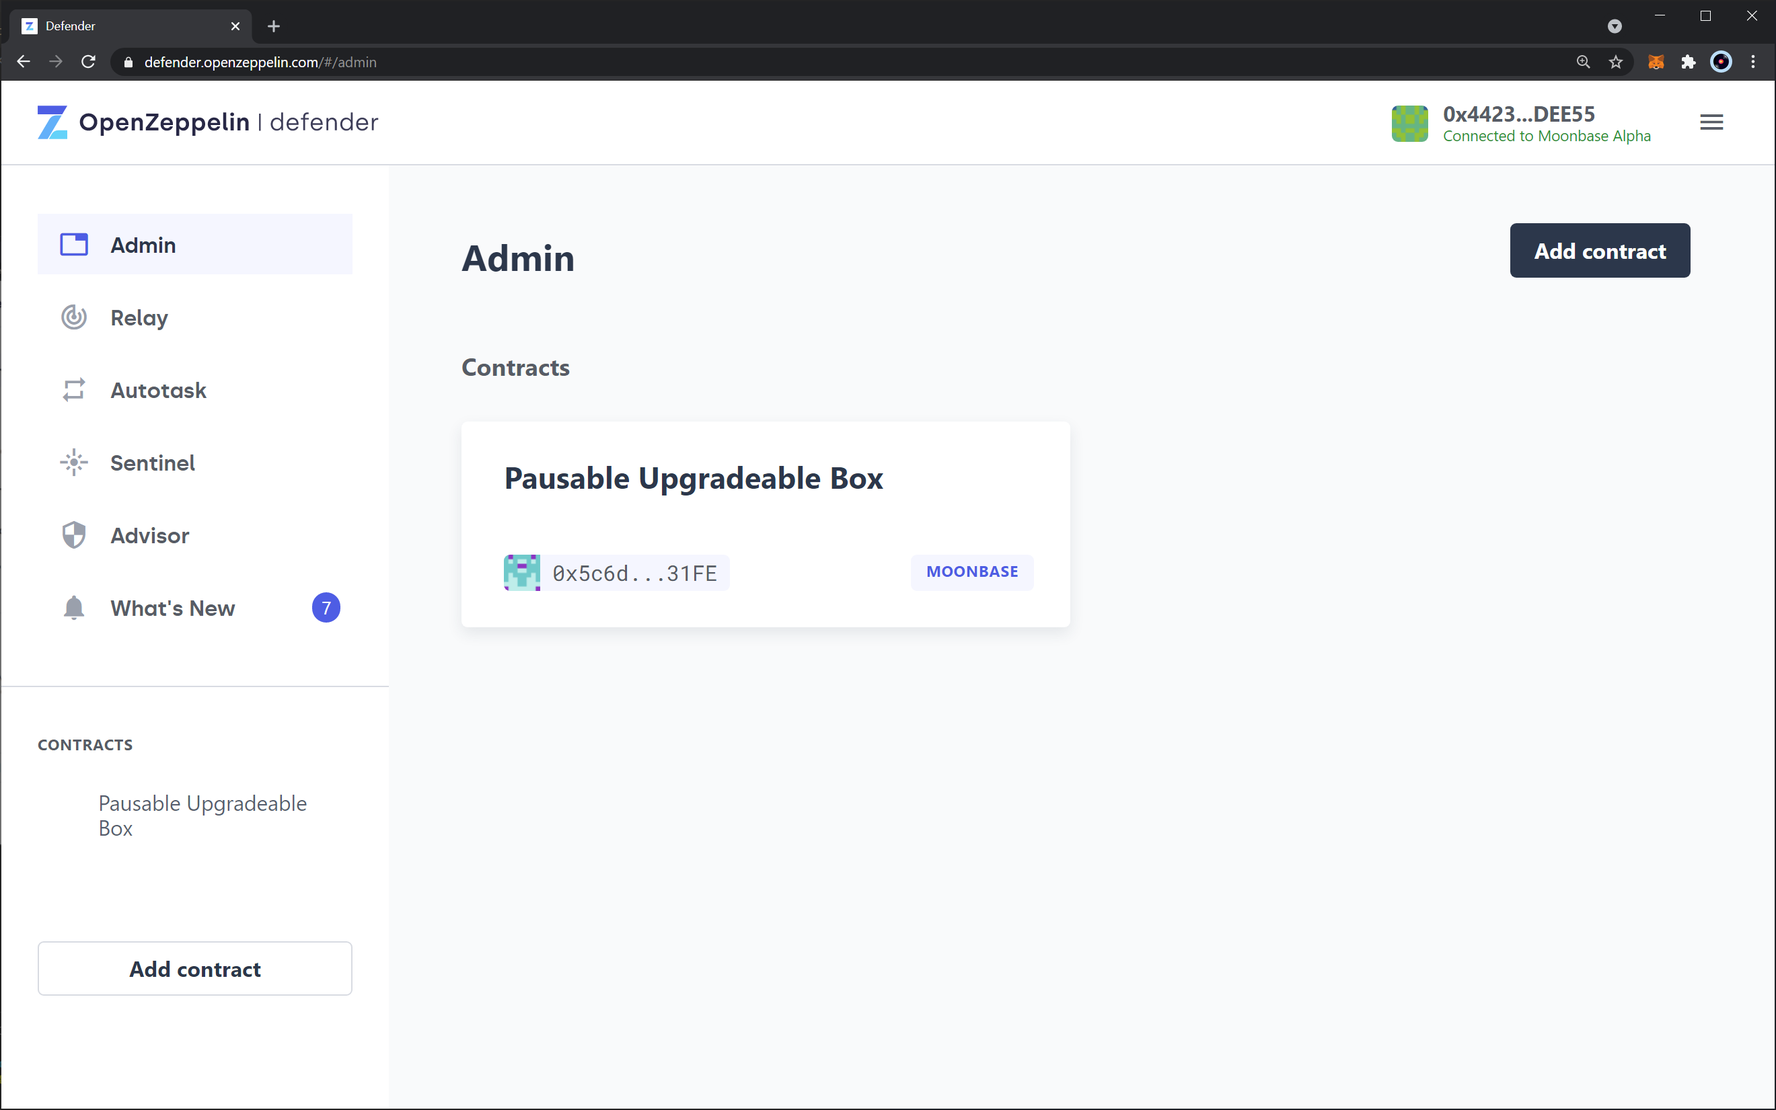
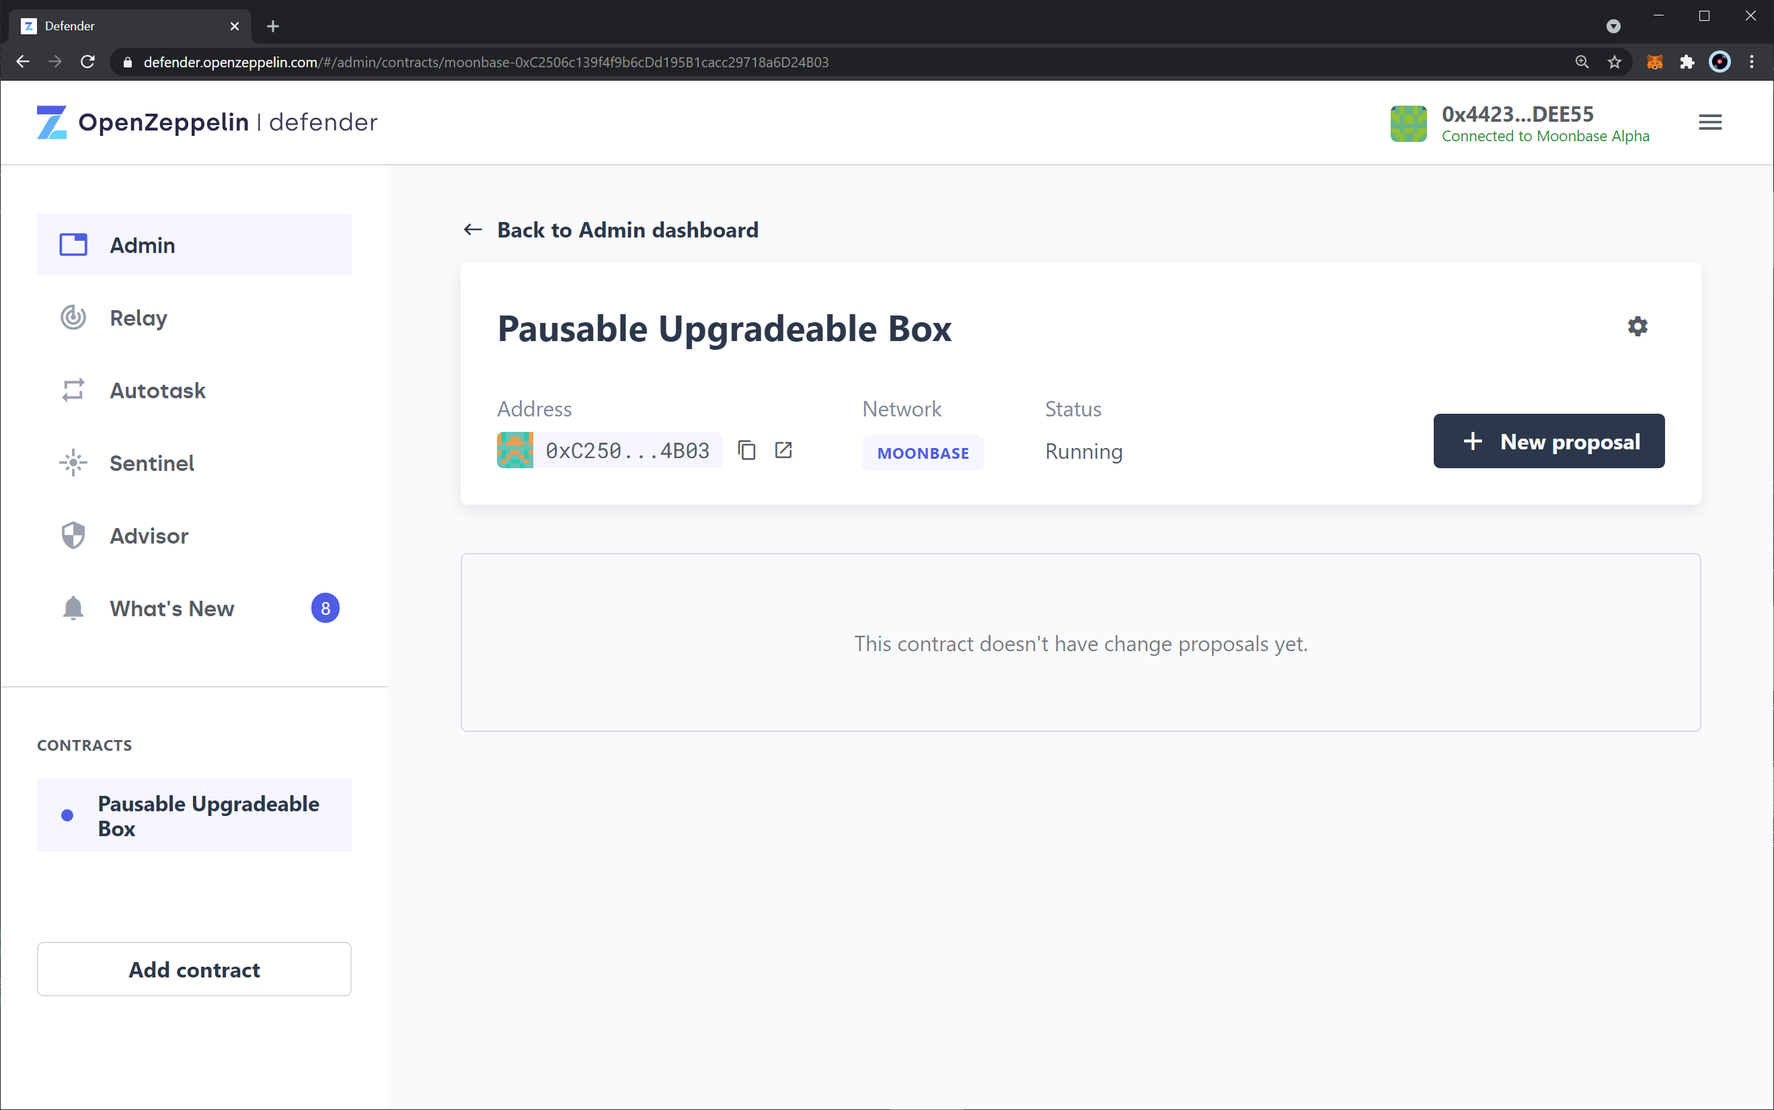
Defender updates

diff --git a/integrations/openzeppelin/contracts.md b/integrations/openzeppelin/contracts.md
@@ -1,6 +1,6 @@
 ---
 title: Contracts & Libraries
-description:  Learn how to easily create common OpenZeppelin contracts with their Contracts Wizard, and how to deploy them on Moonbeam thanks to its Ethereum compatibility features
+description:  Learn how to create common OpenZeppelin contracts with their Contracts Wizard easily and how to deploy them on Moonbeam thanks to its Ethereum compatibility features
 ---
 
 # OpenZeppelin Contracts & Libraries
@@ -13,7 +13,7 @@ OpenZeppelin contracts and libraries have become a standard in the industry. The
 
 Because Moonbeam is fully Ethereum compatible, all of OpenZeppelin's contracts and libraries can be implemented without any changes.
 
-This guide is divided into two sections. The first part describes the OpenZeppelin Contracts Wizard, an great online tool to help you create smart contracts using OpenZeppelin code. The second section provides a step-by-step guide on how you can deploy these contracts on Moonbeam.
+This guide is divided into two sections. The first part describes the OpenZeppelin Contracts Wizard, a great online tool to help you create smart contracts using OpenZeppelin code. The second section provides a step-by-step guide on how you can deploy these contracts on Moonbeam.
 
 ## OpenZeppelin Contract Wizard
 
@@ -42,7 +42,7 @@ Once you have set up your contract with all the settings and features, it is jus
 
 ## Deploying OpenZeppelin Contracts on Moonbeam
 
-This section goes through the steps for deploying OpenZeppelin contracts on Moonbeam Currently, it covers the following contracts:
+This section goes through the steps for deploying OpenZeppelin contracts on Moonbeam Currently. It covers the following contracts:
 
  - ERC20 (fungible tokens)
  - ERC721 (non-fungible tokens)
@@ -52,7 +52,7 @@ All the code of the contracts was obtained using OpenZeppelin [Contract Wizard](
  
 ### Checking Prerequisites
 
-The steps described in this section assumes you have [MetaMask](https://metamask.io/) installed and connected to the Moonbase Alpha TestNet. Contract deployment is done using the [Remix IDE](https://remix.ethereum.org/) via the "Injected Web3" environment. You can corresponding tutorials in the following links:
+The steps described in this section assume you have [MetaMask](https://metamask.io/) installed and connected to the Moonbase Alpha TestNet. Contract deployment is done using the [Remix IDE](https://remix.ethereum.org/) via the "Injected Web3" environment. You can find corresponding tutorials in the following links:
 
  - [Interacting with Moonbeam using MetaMask](/integrations/wallets/metamask/)
  - [Interacting with Moonbeam using Remix](/integrations/remix/)
@@ -61,16 +61,16 @@ The steps described in this section assumes you have [MetaMask](https://metamask
 
 For this example, an ERC20 token will be deployed to Moonbase Alpha. The final code used combines different contracts from OpenZeppelin:
 
- - **ERC20.sol** — ERC20 token implementation with the optional features from the base interface. Includes the supply mechanism with a `mint` function, but needs to be explicitly called from within the main contract
+ - **ERC20.sol** — ERC20 token implementation with the optional features from the base interface. Includes the supply mechanism with a `mint` function but needs to be explicitly called from within the main contract
  - **Ownable.sol** — extension to restrict access to certain functions
 
-The mintable ERC20 OpenZeppelin token contract provides a `mint` function that can only be called by the owner of the contract. By default, the owner is the contract's deployer address. There is also a premint of `1000` tokens sent to the contract's deployer configured in the `constructor` function.
+The mintable ERC20 OpenZeppelin token contract provides a `mint` function that the owner of the contract can only call. By default, the owner is the contract's deployer address. There is also a premint of `1000` tokens sent to the contract's deployer configured in the `constructor` function.
 
 The first step is to go to [Remix](https://remix.ethereum.org/) and take the following steps:
 
  1. Click on the "Create New File" icon and set a file name. For this example, it was set to `ERC20.sol`
- 2. Make sure the file was created succesfully. Click on the file to open it up in the text editor
- 3. Write your smart contract using the file editor. For this example the following code was used:
+ 2. Make sure the file was created successfully. Click on the file to open it up in the text editor
+ 3. Write your smart contract using the file editor. For this example, the following code was used:
 
 ```sol
 pragma solidity ^0.8.0;
@@ -91,7 +91,7 @@ contract MyToken is ERC20, Ownable {
 
 ![Getting Started with Remix](/images/openzeppelin/ozcontracts-images1.png)
 
-Once your smart contract is written, you can compile it by takink the following steps: 
+Once your smart contract is written, you can compile it by taking the following steps:
 
  1. Head to the "Solidity Compiler`
  2. Click on the compile button
@@ -102,10 +102,10 @@ Once your smart contract is written, you can compile it by takink the following 
 With the contract compiled, you are ready to deploy it taking the following steps: 
 
  1. Head to the "Deploy & Run Transactions" tab
- 2. Change the environment to "Injected Web3". This will use MetaMask's injected provider. Consequently, the contract wil be deployed to whatever network MetaMask is connected to. MetaMask might show a pop-up outlining that Remix is trying to connect to your wallet
- 3. Select the right contract to deploy. In this example, it is the `MyToken` contract inside the `ERC20.sol` file
+ 2. Change the environment to "Injected Web3". This will use MetaMask's injected provider. Consequently, the contract will be deployed to whatever network MetaMask is connected to. MetaMask might show a pop-up outlining that Remix is trying to connect to your wallet
+ 3. Select the proper contract to deploy. In this example, it is the `MyToken` contract inside the `ERC20.sol` file
  4. If everything is ready, click on the "Deploy" button. Review the transaction information in MetaMask and confirm it
- 5. After a few seconds, the transaction should get confirmed and you should see your contract under "Deployed Contracts"
+ 5. After a few seconds, the transaction should get confirmed, and you should see your contract under "Deployed Contracts"
 
 ![Deploy ERC20 Contract with Remix](/images/openzeppelin/ozcontracts-images3.png)
 
@@ -115,7 +115,7 @@ And that is it! You've deployed an ERC20 token contract using OpenZeppeling's co
 
 For this example, an ERC721 token will be deployed to Moonbase Alpha. The final code used combines different contracts from OpenZeppelin:
 
- - **ERC721** — ERC721 token implementation with the optional features from the base interface. Includes the supply mechanism with a `_mint` function, but needs to be explicitly called from within the main contract
+ - **ERC721** — ERC721 token implementation with the optional features from the base interface. Includes the supply mechanism with a `_mint` function but needs to be explicitly called from within the main contract
  - **Burnable** — extension to allow tokens to be destroyed by their owners (or approved addresses)
  - **Enumerable** — extension to allow on-chain enumeration of tokens
  - **Ownable.sol** — extension to restrict access to certain functions
@@ -165,10 +165,10 @@ contract MyToken is ERC721, ERC721Enumerable, ERC721Burnable, Ownable {
 
 With the contract compiled, head to the "Deploy & Run Transactions" tab. In here, you need to:
 
- 1. Change the environment to "Injected Web3". This will use MetaMask's injected provider. Consequently, the contract wil be deployed to whatever network MetaMask is connected to. MetaMask might show a pop-up outlining that Remix is trying to connect to your wallet
- 2. Select the right contract to deploy. In this example, it is the `MyToken` contract inside the `ERC721.sol` file
+ 1. Change the environment to "Injected Web3". This will use MetaMask's injected provider. Consequently, the contract will be deployed to whatever network MetaMask is connected to. MetaMask might show a pop-up outlining that Remix is trying to connect to your wallet
+ 2. Select the proper contract to deploy. In this example, it is the `MyToken` contract inside the `ERC721.sol` file
  3. If everything is ready, click on the "Deploy" button. Review the transaction information in MetaMask and confirm it
- 4. After a few seconds, the transaction should get confirmed and you should see your contract under "Deployed Contracts"
+ 4. After a few seconds, the transaction should get confirmed, and you should see your contract under "Deployed Contracts"
 
 ![Deploy ERC721 Contract with Remix](/images/openzeppelin/ozcontracts-images4.png)
 
@@ -178,11 +178,11 @@ And that is it! You've deployed an ERC721 token contract using OpenZeppeling's c
 
 For this example, an ERC1155 token will be deployed to Moonbase Alpha. The final code used combines different contracts from OpenZeppelin:
 
- - **ERC1155** — ERC1155 token implementation with the optional features from the base interface. Includes the supply mechanism with a `_mint` function, but needs to be explicitly called from within the main contract
+ - **ERC1155** — ERC1155 token implementation with the optional features from the base interface. Includes the supply mechanism with a `_mint` function but needs to be explicitly called from within the main contract
  - **Pausable** — extension to allows pausing tokens transfer, mintings and burnings
  - **Ownable.sol** — extension to restrict access to certain functions
 
-OpenZeppelin's ERC1155 token contract provides a `_mint` function that can only be called in the `constructor` function. Therefore, this examples creates 1000 tokens withn an ID of `0`, and 1 unique token with an ID of `1`.
+OpenZeppelin's ERC1155 token contract provides a `_mint` function that can only be called in the `constructor` function. Therefore, this example creates 1000 tokens with an ID of `0`, and 1 unique token with an ID of `1`.
 
 The first step is to go to [Remix](https://remix.ethereum.org/) and create a new file. For this example, the file name will be `ERC1155.sol`.
 
@@ -225,10 +225,10 @@ contract MyToken is ERC1155, Ownable, Pausable {
 
 With the contract compiled, head to the "Deploy & Run Transactions" tab. In here, you need to:
 
- 1. Change the environment to "Injected Web3". This will use MetaMask's injected provider. Consequently, the contract wil be deployed to whatever network MetaMask is connected to. MetaMask might show a pop-up outlining that Remix is trying to connect to your wallet
- 2. Select the right contract to deploy. In this example, it is the `MyToken` contract inside the `ERC1155.sol` file
+ 1. Change the environment to "Injected Web3". This will use MetaMask's injected provider. Consequently, the contract will be deployed to whatever network MetaMask is connected to. MetaMask might show a pop-up outlining that Remix is trying to connect to your wallet
+ 2. Select the proper contract to deploy. In this example, it is the `MyToken` contract inside the `ERC1155.sol` file
  3. If everything is ready, click on the "Deploy" button. Review the transaction information in MetaMask and confirm it
- 4. After a few seconds, the transaction should get confirmed and you should see your contract under "Deployed Contracts"
+ 4. After a few seconds, the transaction should get confirmed, and you should see your contract under "Deployed Contracts"
 
 ![Deploy ERC1155 Contract with Remix](/images/openzeppelin/ozcontracts-images5.png)
 

diff --git a/integrations/openzeppelin/defender.md b/integrations/openzeppelin/defender.md
@@ -1,6 +1,6 @@
 ---
 title: Defender
-description:  Learn how to use OpenZeppelin Defender to manage smart contracts in a secure way on Moonbeam thanks to its Ethereum compatibility features
+description:  Learn how to use OpenZeppelin Defender to manage smart contracts securely on Moonbeam, thanks to its Ethereum compatibility features
 ---
 
 # OpenZeppelin Defender
@@ -9,15 +9,15 @@ description:  Learn how to use OpenZeppelin Defender to manage smart contracts i
 
 ## Introduction
 
-OpenZeppelin Defender is a web-based application that allows developers to perform and automate smart contracts operations in a secure way. Defender offers different components:
+OpenZeppelin Defender is a web-based application that allows developers to perform and automate smart contract operations in a secure way. Defender offers different components:
 
- - [**Admin**](https://docs.openzeppelin.com/defender/admin) — to automate and secure all your smart contract operations such as access controls, upgrades and pausing
+ - [**Admin**](https://docs.openzeppelin.com/defender/admin) — to automate and secure all your smart contract operations such as access controls, upgrades, and pausing
  - [**Relay**](https://docs.openzeppelin.com/defender/relay) — to build with a private and secure transaction infrastructure with the implementation of private relayers
  - [**Autotasks**](https://docs.openzeppelin.com/defender/autotasks) — to create automated scripts to interact with your smart contracts
  - [**Sentinel**](https://docs.openzeppelin.com/defender/sentinel) — to monitor your smart contract's events, functions, and transactions, and receive notifications via email
- - [**Advisor**](https://docs.openzeppelin.com/defender/advisor) — to learn and implement best practices around development, testing, monitoring and operations
+ - [**Advisor**](https://docs.openzeppelin.com/defender/advisor) — to learn and implement best practices around development, testing, monitoring, and operations
 
-OpenZeppelin Defender can now be used on the Moonbase Alpha TestNet. This guide will show you how to get started with Defender, and demo Admin component to pause a smart contract. You can find more information in regards to the other components in the links mentioned above.
+OpenZeppelin Defender can now be used on the Moonbase Alpha TestNet. This guide will show you how to get started with Defender and demo Admin component to pause a smart contract. You can find more information in regards to the other components in the links mentioned above.
 
 For more information, the OpenZeppelin team has written a great [documentation site](https://docs.openzeppelin.com/defender/) for Defender.
 
@@ -27,11 +27,11 @@ This section goes through the steps for getting started with OpenZeppelin Defend
  
 ### Checking Prerequisites
 
-The steps described in this section assumes you have [MetaMask](https://metamask.io/) installed and connected to the Moonbase Alpha TestNet. If you haven't connected MetaMask to the TestNet, check out our [MetaMask integration guide](/integrations/wallets/metamask/).
+The steps described in this section assume you have [MetaMask](https://metamask.io/) installed and connected to the Moonbase Alpha TestNet. If you haven't connected MetaMask to the TestNet, check out our [MetaMask integration guide](/integrations/wallets/metamask/).
 
-In addition, you need to sign up for a free OpenZeppelin Defender account, which you can do in the main [Defender website](https://defender.openzeppelin.com/).
+In addition, you need to sign up for a free OpenZeppelin Defender account, which you can do on the main [Defender website](https://defender.openzeppelin.com/).
 
-The contract used in this guide is an extension of the `Box.sol` contract used in the [upgrading smart contracts guide](https://docs.openzeppelin.com/learn/upgrading-smart-contracts), from the OpenZeppelin documentation. To take full advantage of the Admin component, the contract was made upgradable and the [Pausable module](https://docs.openzeppelin.com/contracts/4.x/api/security#Pausable) was added. You can deploy your own contract using the following code, and following the [upgrading smart contracts guide](https://docs.openzeppelin.com/learn/upgrading-smart-contracts):
+The contract used in this guide is an extension of the `Box.sol` contract used in the [upgrading smart contracts guide](https://docs.openzeppelin.com/learn/upgrading-smart-contracts), from the OpenZeppelin documentation. Also, the contract was made upgradable and [pausable](https://docs.openzeppelin.com/contracts/4.x/api/security#Pausable) to take full advantage of the Admin component. You can deploy your contract using the following code and following the [upgrading smart contracts guide](https://docs.openzeppelin.com/learn/upgrading-smart-contracts):
 
 ```sol
 // SPDX-License-Identifier: MIT
@@ -75,26 +75,26 @@ contract PausableBox is Initializable, PausableUpgradeable, OwnableUpgradeable {
 
 ### Connecting Defender to Moonbase Alpha
 
-Once you have an OpenZeppelin Defender account, log into the [Defender App](https://defender.openzeppelin.com/). In the main screen, with MetaMask [connected to Moonbase Alpha](/getting-started/testnet/metamask/)click on the top right corner "Connect wallet" button:
+Once you have an OpenZeppelin Defender account, log into the [Defender App](https://defender.openzeppelin.com/). In the main screen, with MetaMask [connected to Moonbase Alpha](/getting-started/testnet/metamask/) click on the top right corner "Connect wallet" button:
 
 ![OpenZeppelin Defender Connect](/images/openzeppelin/ozdefender-images1.png)
 
-If successful, you should see your address and a text stating "Connected to Moonbase Alpha".
+If successful, you should see your address and a text stating "Connected to Moonbase Alpha."
 
 ## Using the Admin Component
 
-This section goes through the steps for getting started with OpenZeppelin Defender Admin component to manage smart contracts on Moonbase Alpha
+This section goes through the steps for getting started with OpenZeppelin Defender Admin component to manage smart contracts on Moonbase Alpha.
 
 ### Importing you Contract
 
-The first step to use Defender Admin is to add the contract you want to manage. To do so, click on the "Add contract" button near the top right corner. This will take you to the "import contract" screen, where you need to:
+The first step to using Defender Admin is to add the contract you want to manage. To do so, click on the "Add contract" button near the top right corner. This will take you to the "import contract" screen, where you need to:
 
- 1. Set a contract name, this is only for display purposes
+ 1. Set a contract name. This is only for display purposes
  2. Select the network where the contract that you want to manage is deployed. This is particularly useful when a contract is deployed with the same address to multiple networks. For this example, enter `Moonbase Alpha`
  3. Enter the contract address
- 4. Paste the contract ABI. This can be obtained either in [Remix](/integrations/remix/), or in the `.json` file normally created after the compilation process (for example, in Truffle or HardHat)
+ 4. Paste the contract ABI. This can be obtained either in [Remix](/integrations/remix/) or in the `.json` file generally created after the compilation process (for example, in Truffle or HardHat)
  5. Check that the contract features were detected correctly
- 6. Once you've check all the information, click on the "Add" button
+ 6. Once you've checked all the information, click on the "Add" button
 
 ![OpenZeppelin Defender Admin Add Contract](/images/openzeppelin/ozdefender-images2.png)
 
@@ -104,7 +104,41 @@ If everything was successfully imported, you should see your contract in the Adm
 
 ### Create a Contract Proposal
 
-Proposal are actions to be carried out in the contract. At the time of writing there are three main proposals/actions that can take place:
+Proposals are actions to be carried out in the contract. At the time of writing, there are three main proposals/actions that can take place:
 
 - **Pause** — available if the pause feature is detected. Pauses token transfers, minting and burning
-- **Upgrade** — available if the upgrade feature is detected. Allows for a contract to be upgraded via 
+- **Upgrade** — available if the upgrade feature is detected. Allows for a contract to be [upgraded via a proxy contract](https://docs.openzeppelin.com/learn/upgrading-smart-contracts)
+- **Admin action** — call to any function in the managed contract
+
+In this case, a new proposal is created to pause the contract. To do so, take the following steps:
+
+ 1. Click on the "New proposal" button to see all the available options
+ 2. Click on "Pause"
+
+![OpenZeppelin Defender Admin Contract New Pause Proposal](/images/openzeppelin/ozdefender-images4.png)
+
+This will open the proposal page, where all the details regarding the proposal need to be filled in. In this example, you need to provide the following information:
+
+ 1. Admin account address. You can also leave this field empty if you want to run the action from your current wallet (if it has all the necessary permissions)
+ 2. Title of the proposal
+ 3. Description of the proposal. In here, you should provide as much detail as possible for other members/managers of the contract (if using a MultiSig wallet)
+ 4. Click on "Create pause proposal"
+
+![OpenZeppelin Defender Admin Contract Pause Proposal Details](/images/openzeppelin/ozdefender-images5.png)
+
+Once the proposal is successfully created, it should be listed in the contract's admin dashboard.
+
+![OpenZeppelin Defender Admin Contract Proposal List](/images/openzeppelin/ozdefender-images6.png)
+
+### Approve a Contract Proposal
+
+With the contract proposal created, the next step is to approve and execute it. To do so, go to the proposal and click on "Approve and Execute." 
+
+![OpenZeppelin Defender Admin Contract Proposal Pause Approve](/images/openzeppelin/ozdefender-images7.png)
+
+
+This will initiate a transaction that needs to be signed using MetaMask, after which the proposal state should change to "Executed (confirmation pending)." Once the transaction is processed, the status should show "Executed."
+
+![OpenZeppelin Defender Admin Contract Proposal Pause Executed](/images/openzeppelin/ozdefender-images8.png)
+
+You can also see that the contract's status has changed from "Running" to "Paused." Great! You now know how to use the Admin component to manage your smart contracts. 
